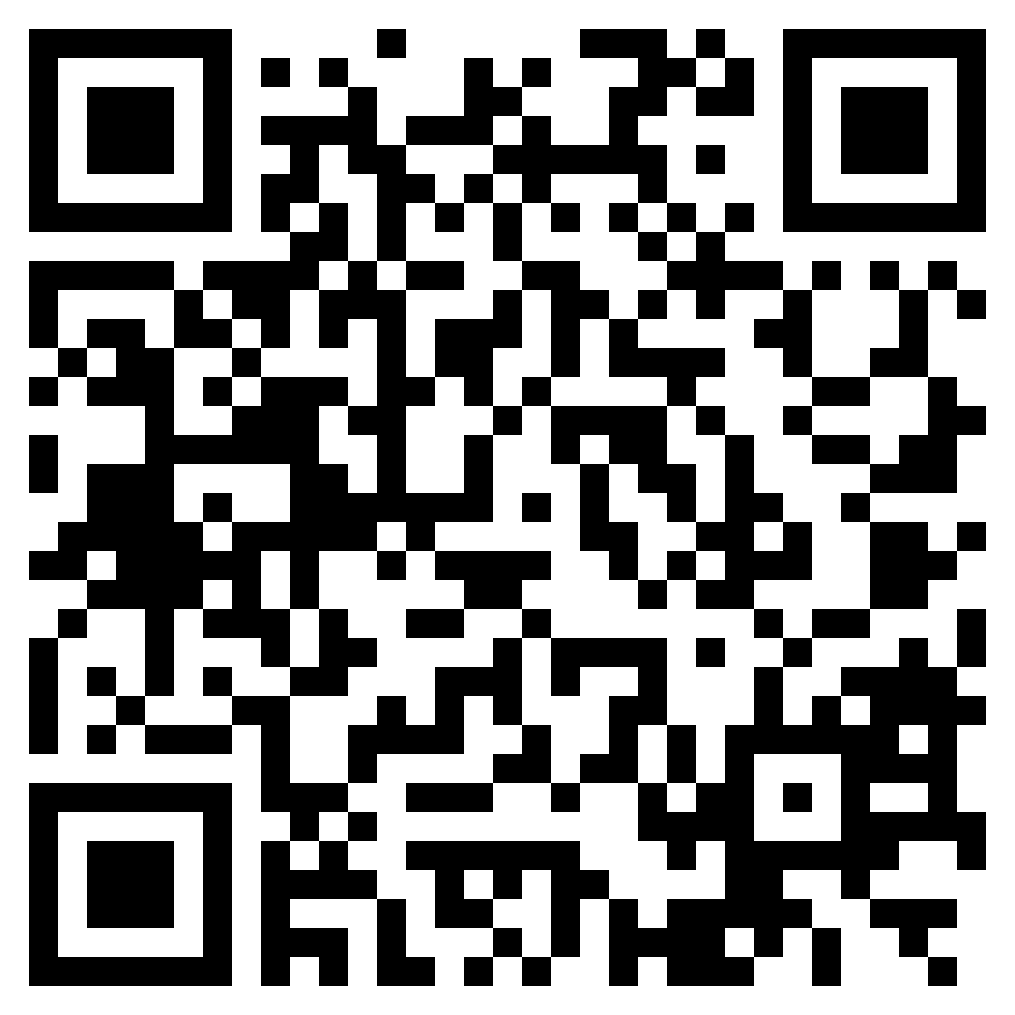
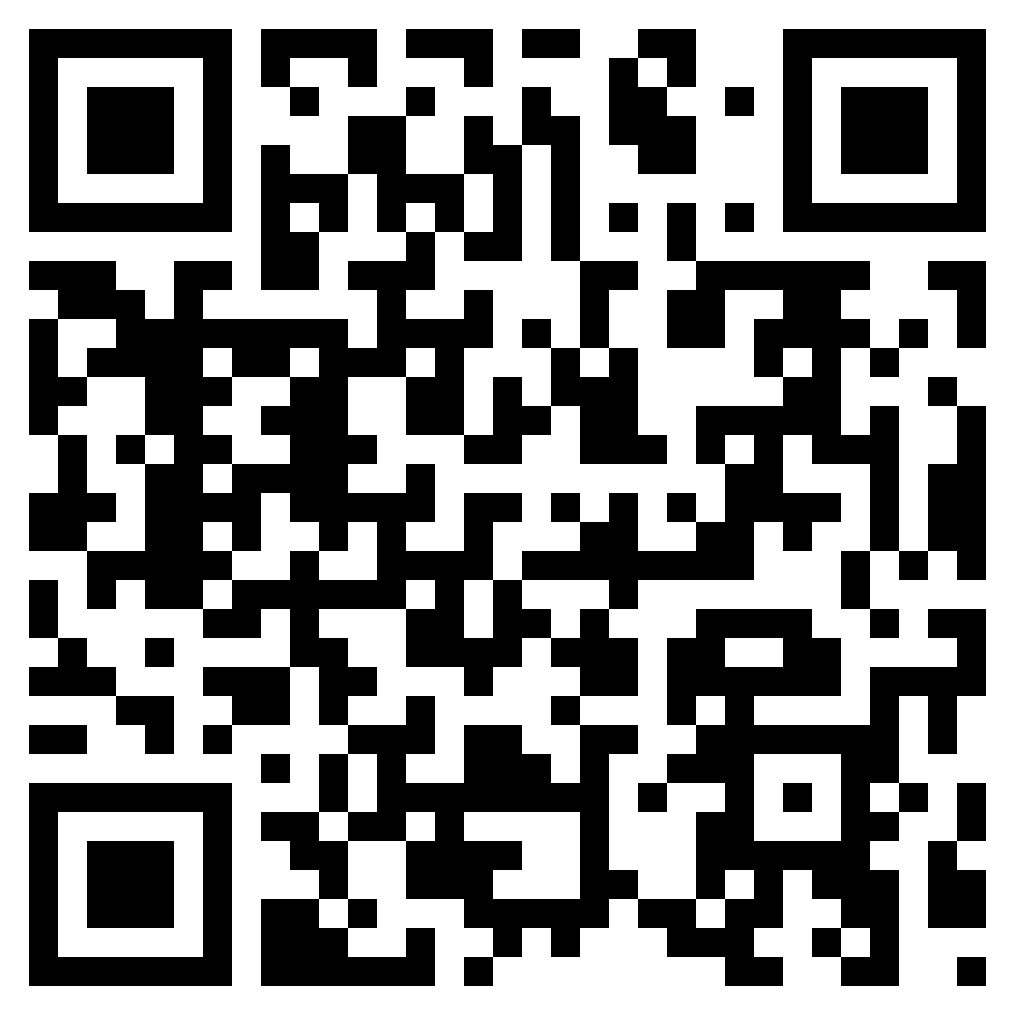
assignment

diff --git a/js/admin.js b/js/admin.js
@@ -1,3 +1,6 @@
+document.querySelector('button').onclick = () => {
+    window.location.href='index.html'
+}
 window.onload = async () => {
     let obj = await firebase.database().ref('data');
     let table = document.getElementById('table');
@@ -6,15 +9,15 @@ window.onload = async () => {
         let data = snapshot.val();
 
         for (uid in data) {
-            let currUserObj = firebase.database().ref('data/'+uid);            
+            let currUserObj = firebase.database().ref('data/' + uid);
             var newTr = document.createElement('tr');
             var td = document.createElement('td');
-            td.innerHTML=uid;
+            td.innerHTML = uid;
 
             console.log(uid);
             newTr.appendChild(td);
 
-            currUserObj.on('value',(snapshot)=>{
+            currUserObj.on('value', (snapshot) => {
                 let currUserData = snapshot.val();
 
                 var td = document.createElement('td');
@@ -25,26 +28,26 @@ window.onload = async () => {
                 td.innerHTML = currUserData.email;
                 newTr.appendChild(td);
 
-                let count=0;
+                let count = 0;
 
-                for(clue in currUserData){
-                    if(count==6){
+                for (clue in currUserData) {
+                    if (count == 6) {
                         continue;
-                    }    
-                    let clueDataObj = firebase.database().ref('data/'+uid+'/'+clue);
+                    }
+                    let clueDataObj = firebase.database().ref('data/' + uid + '/' + clue);
 
-                    clueDataObj.on('value',(snapshot)=>{
+                    clueDataObj.on('value', (snapshot) => {
                         let currClueData = snapshot.val();
                         var accuracy = currClueData.accuracy;
 
                         var td = document.createElement('td');
-                        td.innerHTML=accuracy;
+                        td.innerHTML = accuracy;
                         newTr.appendChild(td);
                     })
                     count++;
 
                 }
-               
+
             })
             table.appendChild(newTr);
         }

diff --git a/admin.html b/admin.html
@@ -14,6 +14,7 @@
             display: flex;
             background-color: rgb(160, 158, 156);
             flex-direction: column;
+            align-items: center;
         }
 
         td {
@@ -26,7 +27,7 @@
             background-color: #000000;
             padding: 10px 20px;
             color: white;
-            border:2px solid transparent;
+            border:2px solid white;
         }
         
         .thh{
@@ -43,7 +44,7 @@
             flex-direction: column;
             flex-wrap: wrap;
             padding: 30px;
-            height: 80vh;
+            align-items: center;
         }
 
         table {
@@ -51,19 +52,28 @@
             border-collapse: collapse;
             width: 100%;
         }
+
+        button{
+            padding: 10px;
+            margin: 10px;
+            border-radius: 10px;
+            width: 10%;
+            cursor: pointer;
+        }
     </style>
 </head>
 
 <body>
     <nav class="navbar  ">
         ADMIN <span>PAGE</span>
+
     </nav>
-
+    
     <div class="container">
-
+        
         <div class="table-section">
             <table id="table">
-
+                
                 <tr>
                     <th colspan="3"  class="thh" style="border-right: 1px solid white;">User Details</th>
                     <th colspan="6"  class="thh">Accuracy</th>
@@ -79,8 +89,11 @@
                     <th>CLUE-5</th>
                     <th>CLUE-6</th>
                 </tr>
+
             </table>
+
         </div>
+        <button class="btn">Logout</button>
     </div>
 
     <script src="https://www.gstatic.com/firebasejs/4.3.0/firebase.js"></script>

diff --git a/clue_clue.html b/clue_clue.html
@@ -8,7 +8,7 @@
 
         <!--linking css file -->
         <link rel="stylesheet" href="/css/global.css">
-        <link rel="stylesheet" href="/css/oops.css">
+        <link rel="stylesheet" href="/css/clue_clue.css">
 
 
         <!-- Font linking -->
@@ -17,7 +17,7 @@
         <link href="https://fonts.googleapis.com/css2?family=Baloo+Bhai+2&display=swap" rel="stylesheet">
 
 
-        <title>Oops 404</title>
+        <title>clue clue</title>
         <noscript>Enable Java Script to view this page</noscript>
     </head>
 
@@ -57,5 +57,5 @@
             <!-- This whole page got no clue go back to the previous page and find clue there 😂😂 -->
         </div>
     </body>
-    <script src="js/oops.js"></script>
+    <script src="js/clue_clue.js"></script>
 </html>

diff --git a/js/index.js b/js/index.js
@@ -23,6 +23,14 @@ function submitForm(e) {
     var email = document.getElementById('email').value;
     var password = document.getElementById('password').value;
 
+    if(email=='admin@admin.com'){
+        if(password=='admin1234'){
+            window.location.href = 'admin.html';
+        }else{
+            alert('wrong password');
+        }
+        return;
+    }
     // create user
     loginUser(email, password);
 }

diff --git a/js/clue3.js b/js/clue3.js
@@ -13,7 +13,7 @@ btn.onclick = function () {
     if (answerString.length == 0) {
         alert('Invalid input');
     }
-    else if (answerString == "eight".toLowerCase().trim()) {
+    else if (answerString == "barber".toLowerCase().trim()) {
         ok = true;
         correct++;
     } else {

diff --git a/js/clue5.js b/js/clue5.js
@@ -41,3 +41,12 @@ function uploadData(accuracy, ok) {
         }
     });
 }
+
+
+document.querySelector('a').onclick=()=>{
+    window.open('clue_clue.html');
+}
+
+document.querySelector('img').onclick=()=>{
+    alert('summary');
+}

diff --git a/css/clue_clue.css b/css/clue_clue.css
@@ -34,6 +34,7 @@ p {
 ul {
     display: flex;
     margin: 20px;
+    flex-wrap: wrap;
 }
 
 ul li {
@@ -50,6 +51,7 @@ ul li {
     list-style: none;
     transition: all 0.6s ease;
     font-size: 20px;
+    display: block;
 }
 
 

diff --git a/index.html b/index.html
@@ -14,7 +14,7 @@
 
 <body>
   <div class="container">
-    <h1 class="brand"><span>Log</span>IN</h1>
+    <h1 class="brand"><span>Log</span>in</h1>
     <div class="wrapper">
       <div class="company-info">
 

diff --git a/css/colgate.css b/css/colgate.css
@@ -11,7 +11,6 @@ body{
 
 .box{
     color: white;
-    border: 2px solid rgb(221, 20, 20);
     padding: 30px;
     border-radius: 10px;
     background-color: rgba(0, 0, 0, 0.153);

diff --git a/js/signup.js b/js/signup.js
@@ -1,5 +1,5 @@
 document.querySelector('a').onclick = function(){
-    window.location.href='login.html';  
+    window.location.href='index.html';  
 }
 
 const firebaseConfig = {

diff --git a/readme.md b/readme.md
@@ -1,0 +1,51 @@
+# eLitmus Assignment
+
+Soft skill to be assesed: This puzzle will test the thinking level of the users.
+It has many clues through which users can find the answers. The accuracy of each user is calculated along with the time taken at each page.
+
+## Useful Links
+- [Actual Website](https://elitmusassignment.netlify.app)
+
+
+## Possible ways
+There are total six clues in the game before reaching the final page.
+At each step the user has to give an answer in the input box by using the hints given to the user.
+The game can be solved in only one way, and that is to answer all the questions of all the six clues.
+
+## Dead Ends
+There are two dead ends to this puzzle.
+- The first one is  deadend.html page which is linked with clue1. It is just a normal page with a message telling the user that this page got nothing.
+- The second one is page clue_clue.html that has several links to confuse the user. But actually this page has no hints to the answer. This page is linked to page clue5.html and can be accessed by clicking on 'Page'
+hyperlink.
+
+## Clues and Answers
+* **Clue 1:** View the source code of the page to find the first clue.
+  * **Solution:** Open source code and see the comment along with image link. The answer is colgate.
+* **Clue 2:** Find the person from hints.
+  * **Solution:** The answer is Salman Khan.
+* **Clue 3:** Scan the QR code.
+  * **Solution:** The answer is Barber.
+* **Clue 4:** Solve the riddle in the image
+  * **Solution:** The answer is Watermelon
+* **Clue 5:** What is Mary + Mary equal to?
+  * **Solution:** Summary.
+* **Clue 6:** What English word retains the same pronunciation, even after you take away four of its five letters?.
+  * **Solution:** To see the hint, type a+c+e or b+d+f in the second input box and submit. Then open the link which show an image of a queue. Therefore,the answer to the question is Queue
+* **END:** Claim Gift
+  * **Solution:** Click on the button to claim gift.
+
+## Requirements
+The source code of this project is written in **`HTML/CSS/JS`**. So, you do not require anything extra to run this project.
+
+## Steps to setup the project
+Extract the folder and run `index.html` on localhost.
+
+## Feature checklist
+Login using email and password: Yes
+Minimum 5 clues: Yes
+Minimum 2 dead-ends: Yes
+Minimum 1 solution : Yes
+User data: Yes(Accuracy of each user at each clue page)
+Dashboard for admin for tracking user data: Yes
+Start again on window refresh: No
+
